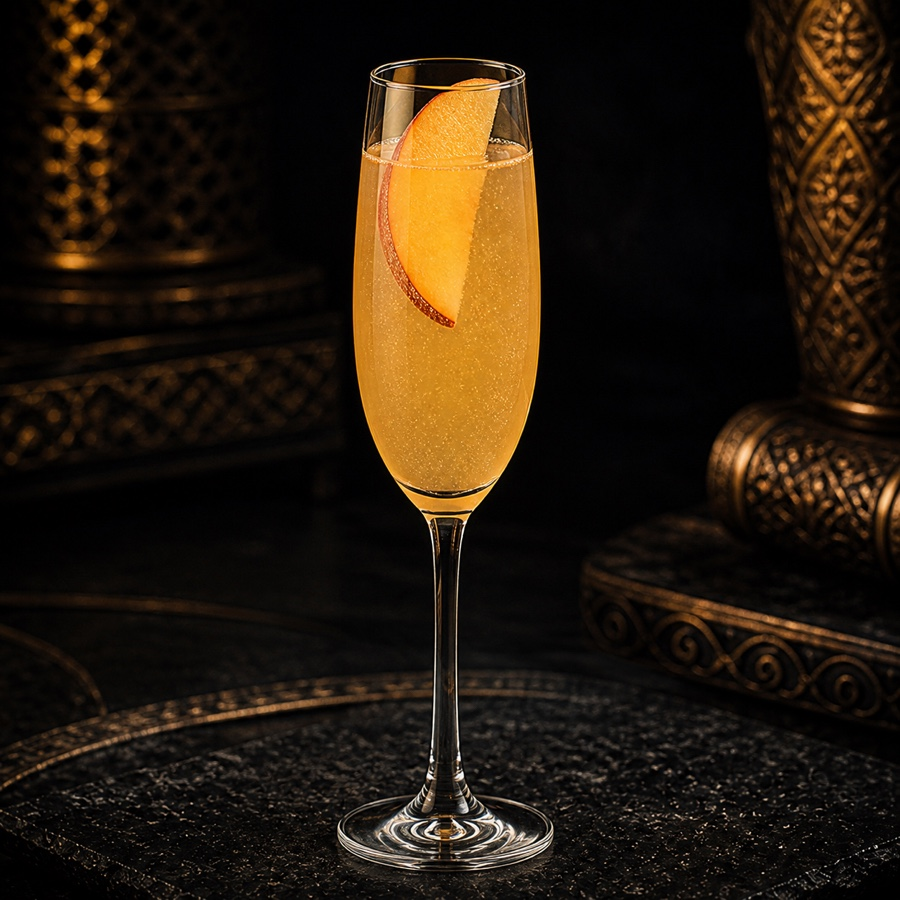
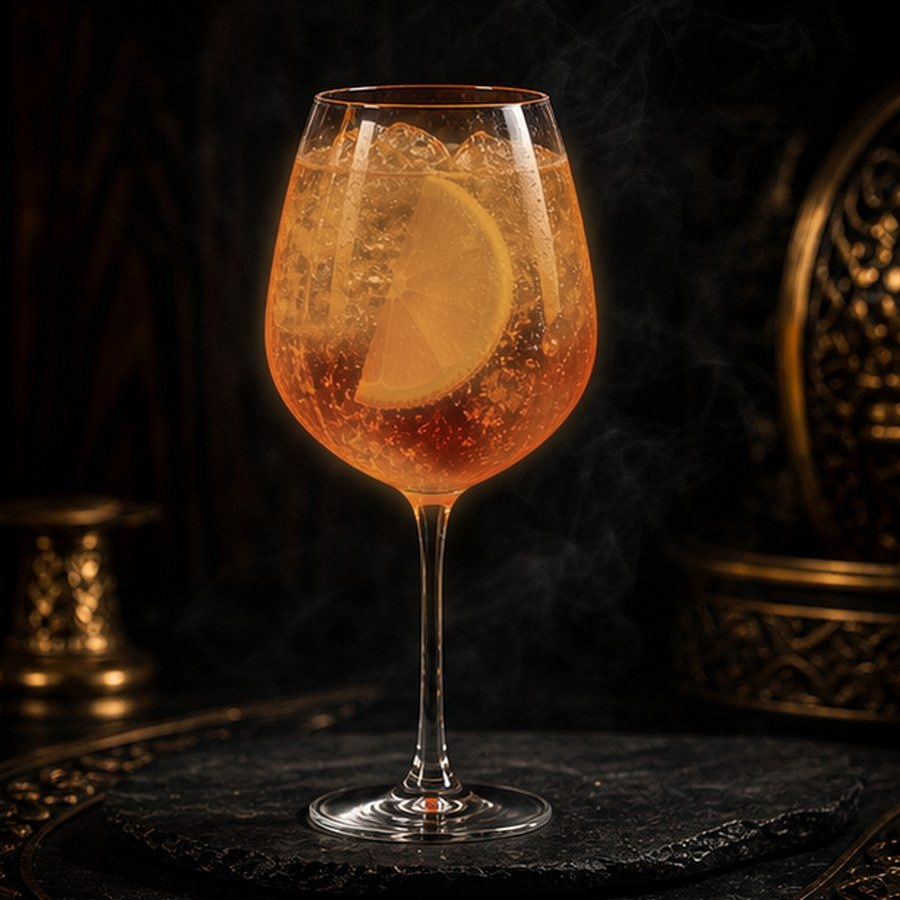
Add files via upload

diff --git a/scripts/menu-data.js b/scripts/menu-data.js
@@ -41,7 +41,7 @@ window.ODIN_MENU_SECTIONS = [
     layout: "showcaseList",
     items: [
       { name: "Пивна дошка «Вальгалла»", description: "Склад: кабаноси, джерки, сир-косичка та часникові грінки.", price: "550 грн", accent: "gold" },
-      { name: "Сирна дошка «Асгард»", photo: "assets/menu-photos/syrna-doshka-asgard.jpg", price: "550 грн", accent: "cream" },
+      { name: "Сирна дошка «Асгард»", price: "550 грн", accent: "cream" },
       { name: "Винна дошка «Асгард»", description: "Склад: сир брі, оливки, грісіні, сир дорблю та мед.", price: "550 грн", accent: "berry" },
       { name: "Дошка «ODIN»", description: "Склад: прошуто, сир брі, салямі, картопляні чипси, вушка в соєвому соусі, грісіні, арахіс, васабі.", price: "750 грн", accent: "stone" }
     ]
@@ -53,10 +53,10 @@ window.ODIN_MENU_SECTIONS = [
     title: "Авторські коктейлі",
     layout: "grid",
     items: [
-      { name: "Nord", photo: "assets/menu-photos/nord.jpg", price: "290 грн", accent: "frost" },
-      { name: "After Valhalla", photo: "assets/menu-photos/after-valhalla.jpg", price: "290 грн", accent: "gold" },
-      { name: "Night", photo: "assets/menu-photos/night.jpg", price: "290 грн", accent: "stone" },
-      { name: "Rune", photo: "assets/menu-photos/rune.jpg", price: "290 грн", accent: "ember" }
+      { name: "Nord", price: "290 грн", accent: "frost" },
+      { name: "After Valhalla", price: "290 грн", accent: "gold" },
+      { name: "Night", price: "290 грн", accent: "stone" },
+      { name: "Rune", price: "290 грн", accent: "ember" }
     ]
   },
   {
@@ -75,9 +75,9 @@ window.ODIN_MENU_SECTIONS = [
       { name: "Espresso Martini", photo: "assets/menu-photos/espresso-martini.jpg", price: "270 грн", accent: "wood" },
       { name: "Pornstar Martini", photo: "assets/menu-photos/pornstar-martini.jpg", price: "270 грн", accent: "gold" },
       { name: "Clover Club", photo: "assets/menu-photos/clover-club.jpg", price: "270 грн", accent: "berry" },
-      { name: "Cuba Libre", photo: "assets/menu-photos/cuba-libre.jpg", price: "270 грн", accent: "ember" },
+      { name: "Cuba Libre", photo: "assets/menu-photos/cuba-libre.jpg?v=20260825-13", price: "270 грн", accent: "ember" },
       { name: "Margarita", photo: "assets/menu-photos/margarita.jpg", price: "270 грн", accent: "frost" },
-      { name: "Bellini", photo: "assets/menu-photos/bellini.jpg", price: "270 грн", accent: "salmon" },
+      { name: "Bellini", photo: "assets/menu-photos/bellini.jpg?v=20260825-13", price: "270 грн", accent: "salmon" },
       { name: "Negroni", photo: "assets/menu-photos/negroni.jpg", price: "270 грн", accent: "stone" }
     ]
   },

diff --git a/index.html b/index.html
@@ -10,7 +10,7 @@
     <link rel="preconnect" href="https://fonts.googleapis.com" />
     <link rel="preconnect" href="https://fonts.gstatic.com" crossorigin />
     <link href="https://fonts.googleapis.com/css2?family=Cinzel:wght@500;600;700&family=Cormorant+SC:wght@500;600;700&family=Inter:wght@400;500;600;700&display=swap" rel="stylesheet" />
-    <link rel="stylesheet" href="styles/main.css?v=20260825-12" />
+    <link rel="stylesheet" href="styles/main.css?v=20260825-13" />
   </head>
   <body>
     <div class="loader" id="loader" aria-live="polite">
@@ -83,8 +83,8 @@
       <span>Темний смак, холодні напої, дим і вечори, що тривають довше.</span>
     </footer>
 
-    <script src="scripts/menu-data.js?v=20260825-12"></script>
-    <script src="scripts/hookah-scene.js?v=20260825-12"></script>
-    <script src="scripts/app.js?v=20260825-12"></script>
+    <script src="scripts/menu-data.js?v=20260825-13"></script>
+    <script src="scripts/hookah-scene.js?v=20260825-13"></script>
+    <script src="scripts/app.js?v=20260825-13"></script>
   </body>
 </html>
